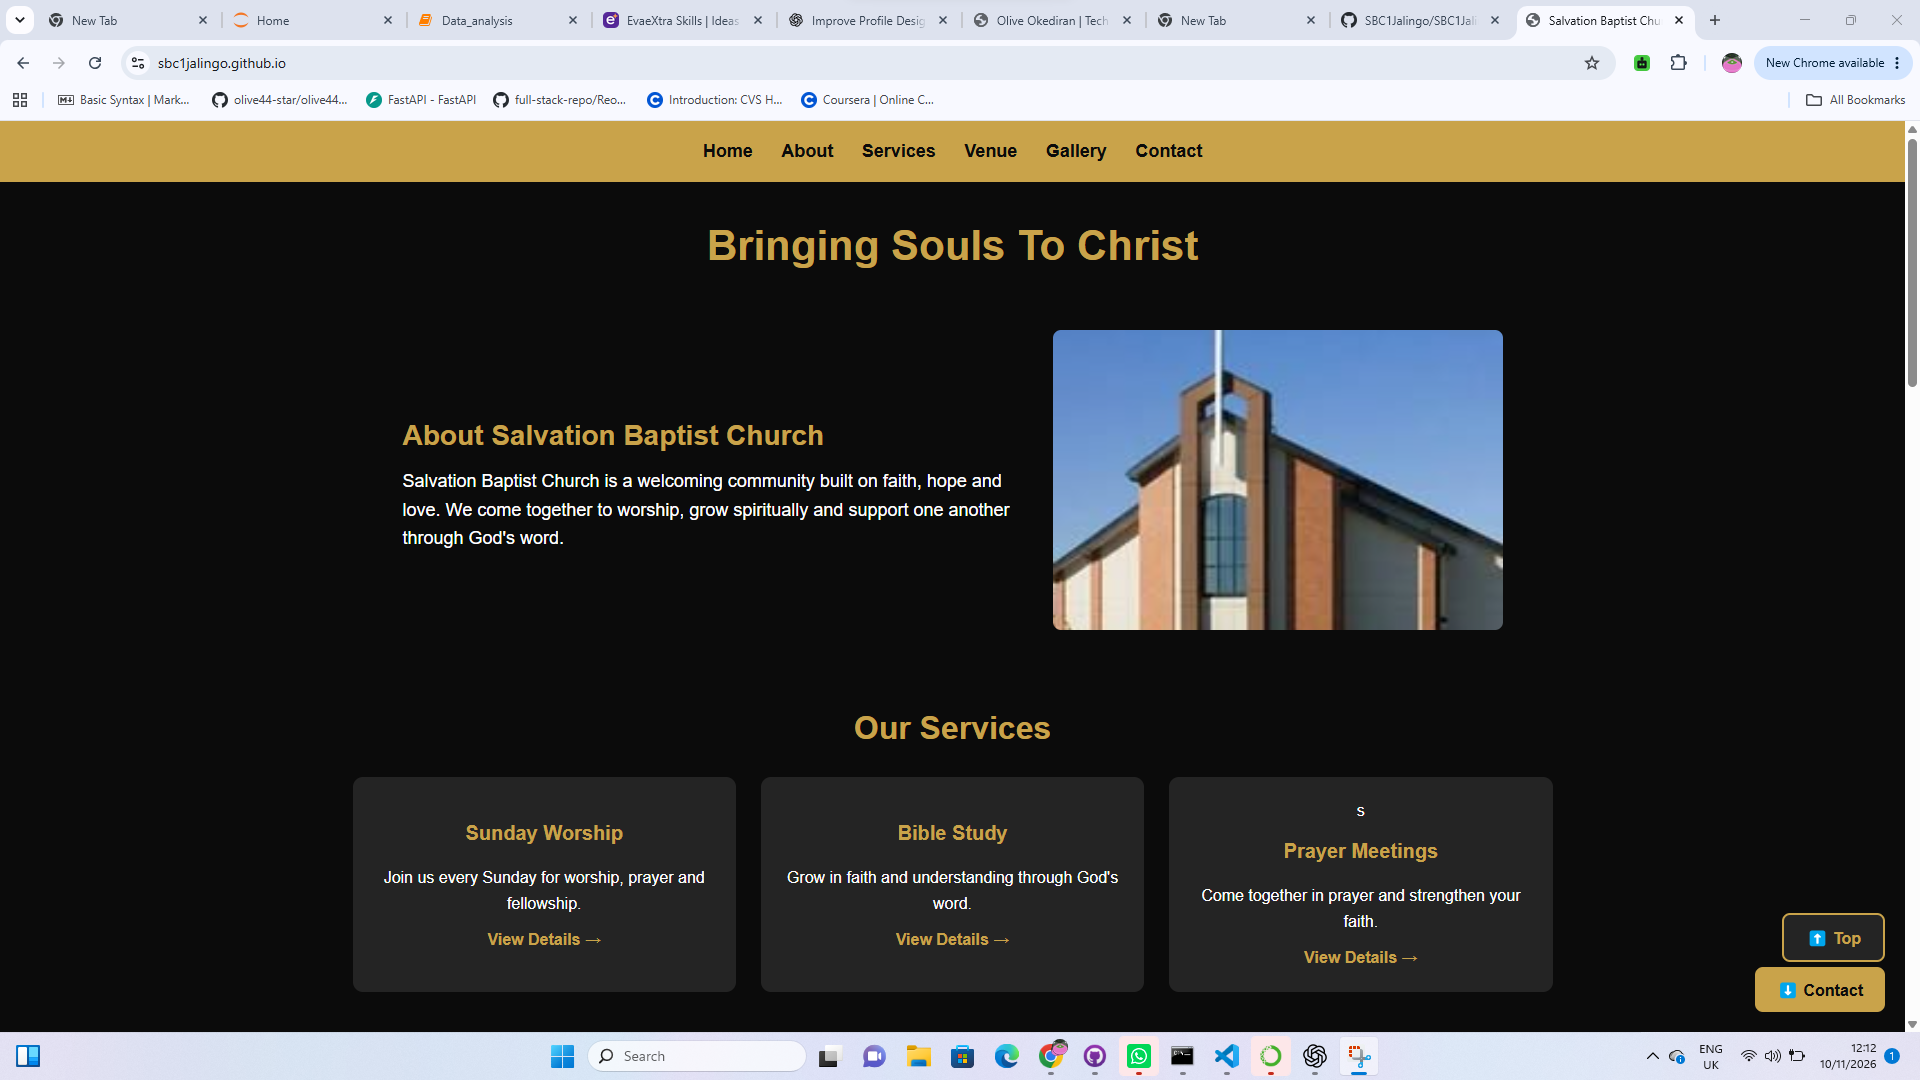
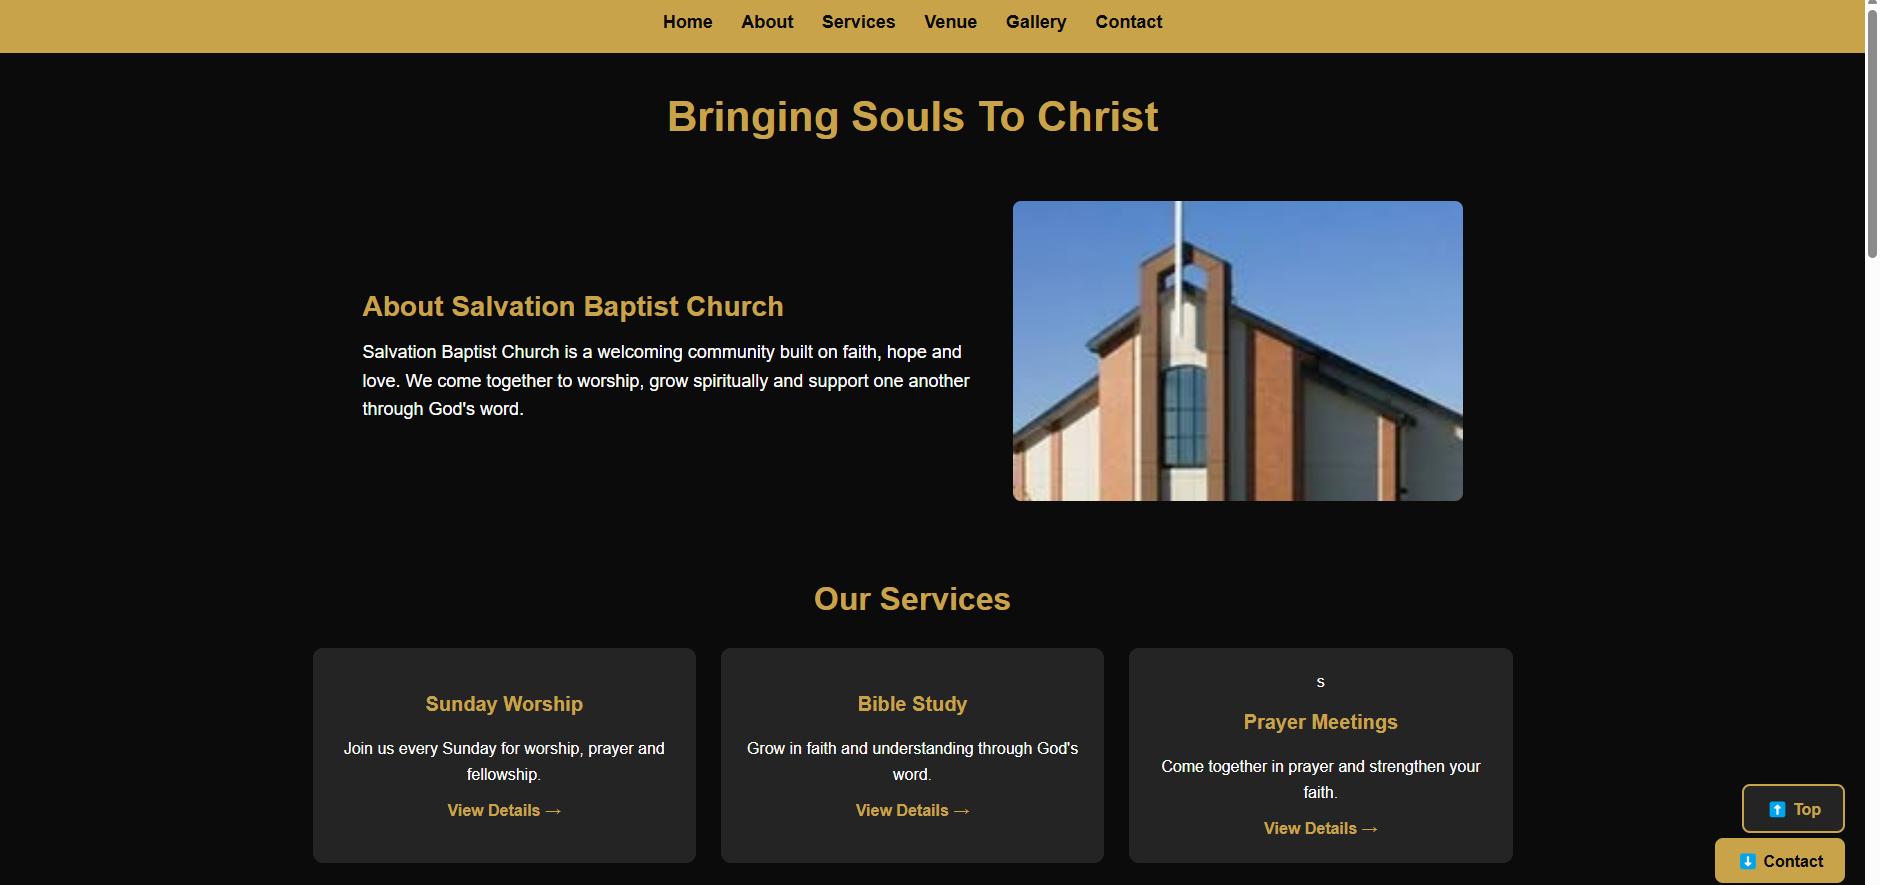
updating project section

diff --git a/index.html b/index.html
@@ -481,6 +481,7 @@ df = pd.read_csv('learners_enrollment.csv')</li>
    <img src="Screenshots/sentiment page.png"
      alt="Sentiment Analytics Dashboard">
 </div>
+</div>
 
 <h3>Sentiment Dashboard</h3>
 
@@ -506,8 +507,35 @@ df = pd.read_csv('learners_enrollment.csv')</li>
 
       <!-- Church Website -->
       <article class="project-card">
+        
+        <div class="project-images">
 
-        <div class="project-icon">🌐</div>
+    <div class="project-image">
+        <img src="Screenshots/Home page 1.png"
+             alt="Church Website Homepage 1">
+    </div>
+
+    <div class="project-image">
+        <img src="Screenshots/Home page.png"
+             alt="Church Website Homepage 2">
+    </div>
+
+    <div class="project-image">
+        <img src="Screenshots/Screenshot 2026-11-10 121604.png"
+             alt="Church Website Gallery">
+    </div>
+
+    <div class="project-image">
+        <img src="Screenshots/service page 2.png"
+             alt="Church Service Page 2">
+    </div>
+
+    <div class="project-image">
+        <img src="Screenshots/service page.png"
+             alt="Church Service Page">
+    </div>
+
+</div>
 
         <h3>Church Website</h3>
 
